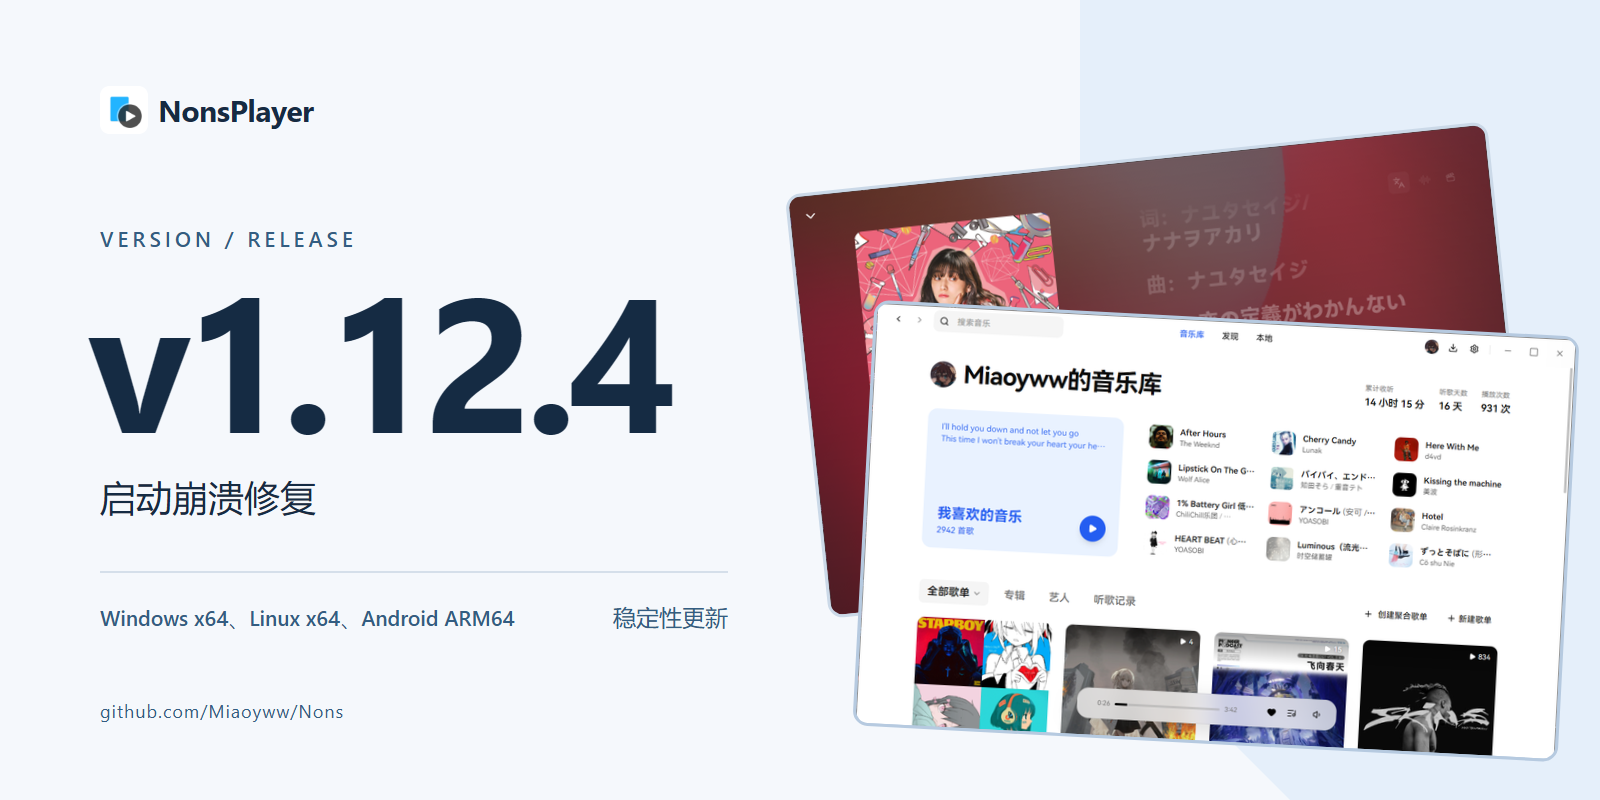
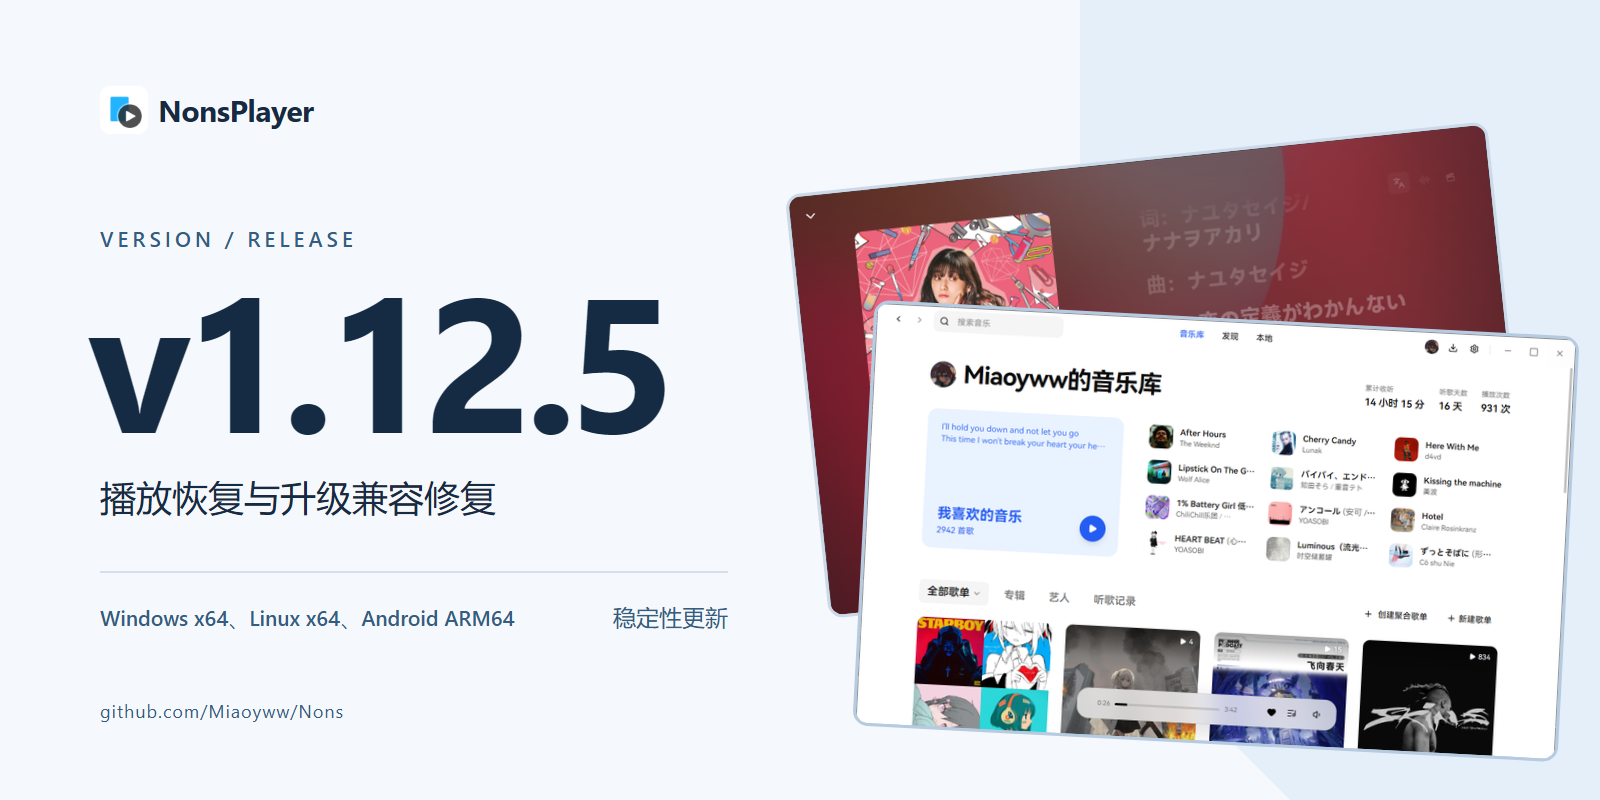
chore(release): 发布 1.12.5

Changed region(s): [[0.3438, 0.375, 0.4375, 0.5625], [0.0625, 0.5938, 0.3125, 0.6562]]

diff --git a/docs/release-assets/editor.html b/docs/release-assets/editor.html
@@ -101,11 +101,11 @@
       <div class="controls">
         <label>
           版本号
-          <input id="edit-version" value="v1.12.4" maxlength="12" />
+          <input id="edit-version" value="v1.12.5" maxlength="12" />
         </label>
         <label>
           副标题
-          <input id="edit-subtitle" value="启动崩溃修复" maxlength="28" />
+          <input id="edit-subtitle" value="播放恢复与升级兼容修复" maxlength="28" />
         </label>
         <label>
           平台
@@ -125,9 +125,10 @@
           role="img"
           aria-labelledby="title desc"
         >
-          <title id="title">NonsPlayer v1.12.4 发布头图</title>
+          <title id="title">NonsPlayer v1.12.5 发布头图</title>
           <desc id="desc">
-            蓝白扁平设计，v1.12.4，启动崩溃修复，Windows x64、Linux x64、Android ARM64，稳定性更新
+            蓝白扁平设计，v1.12.5，播放恢复与升级兼容修复，Windows x64、Linux x64、Android
+            ARM64，稳定性更新
           </desc>
           <rect width="1600" height="800" fill="#F5F8FC" />
           <path d="M1080 0H1600V800H1290L1080 590Z" fill="#E5EFFA" />
@@ -164,10 +165,10 @@
               font-weight="700"
               letter-spacing="-9"
             >
-              v1.12.4
+              v1.12.5
             </text>
             <text id="subtitle" x="100" y="511" fill="#152B43" font-size="36" font-weight="500">
-              启动崩溃修复
+              播放恢复与升级兼容修复
             </text>
             <path d="M100 572H728" stroke="#D5DFEA" stroke-width="2" />
             <text id="platform" x="100" y="626" fill="#335D82" font-size="21" font-weight="500">

diff --git a/CHANGELOG.md b/CHANGELOG.md
@@ -4,6 +4,12 @@
 
 ## [Unreleased]
 
+## [1.12.5] - 2026-11-24
+
+![NonsPlayer v1.12.5 播放恢复与升级兼容修复头图](https://raw.githubusercontent.com/Miaoyww/Nons/v1.12.5/docs/release-assets/header.png)
+
+NonsPlayer 1.12.5 播放恢复与升级兼容修复。本次 Release 提供 **Windows x64、Linux x64、Android ARM64** 构建附件：Windows 提供 MSI、EXE 安装包与免安装便携 ZIP，Linux 提供 AppImage 与 deb，Android 提供 ARM64 试用 APK。
+
 ### 本地音乐与播放
 
 - 桌面在线播放遇到临时地址 403、资源租约失效或解码中途无效数据时，会重新解析当前曲目并从原进度重试一次；第二次失败才跳过。
